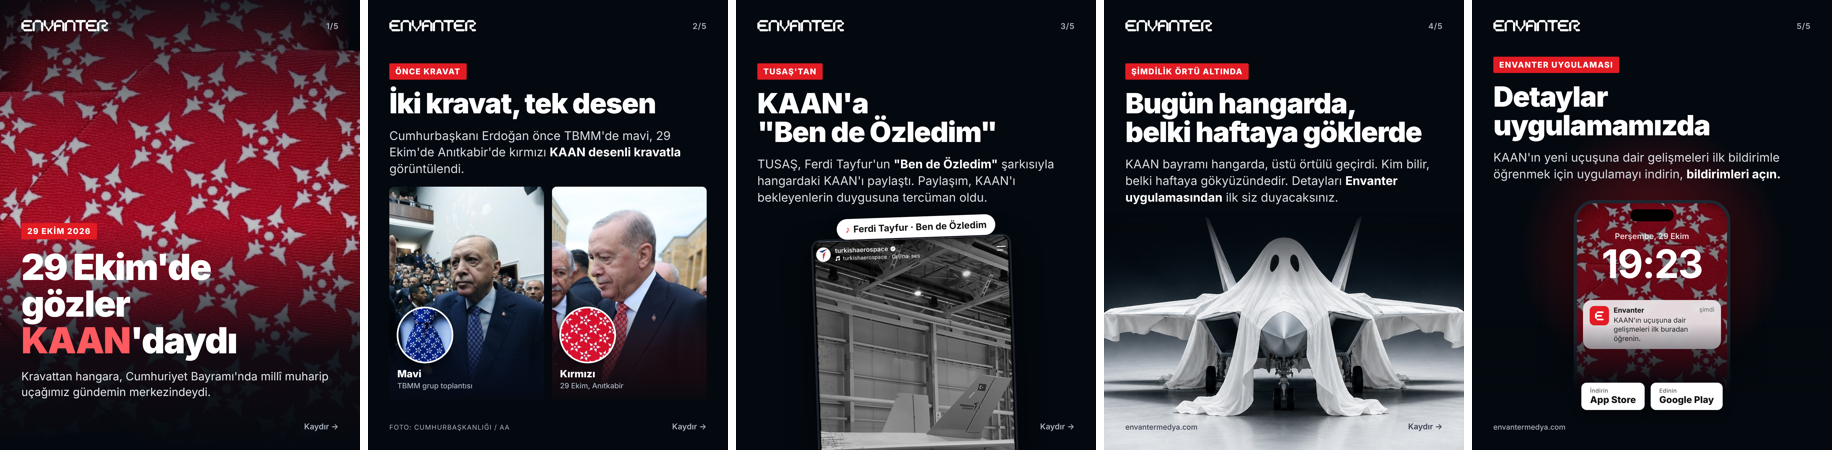
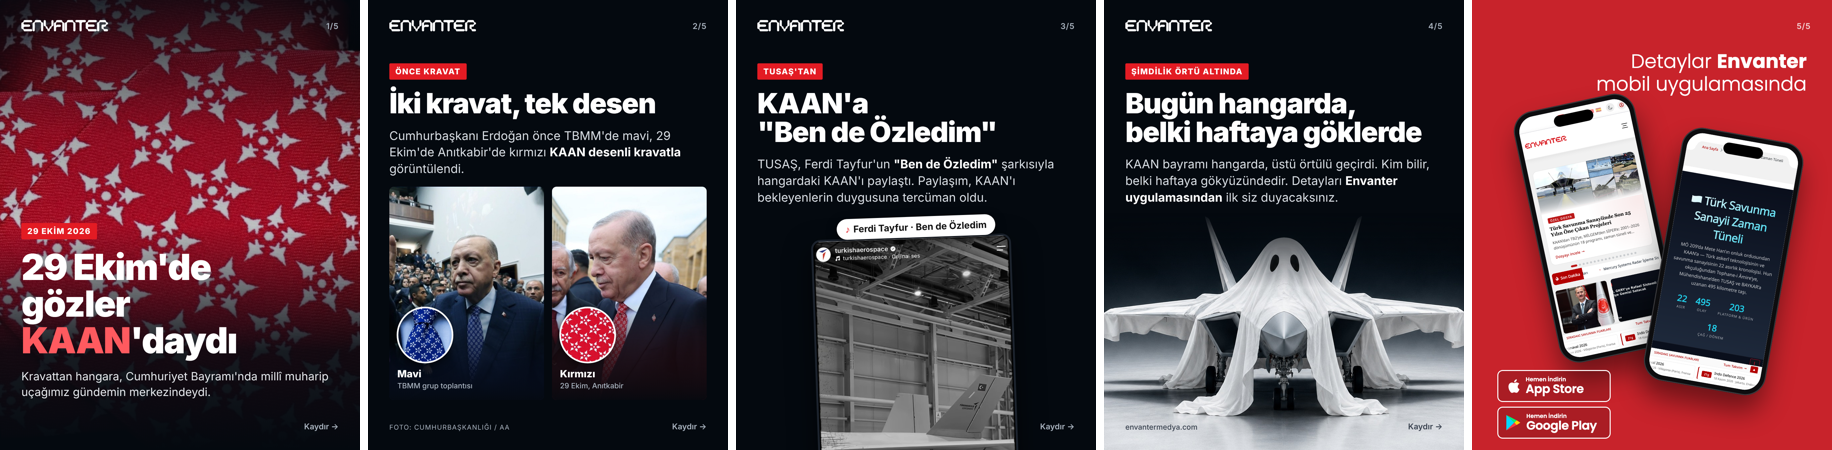
KAAN 29 Ekim carousel'i: 5. slayt Envanter'in hazır uygulama kartıyla değiştirildi
Claude-Session: https://claude.ai/code/session_01AWoAGzbCcH5xr3TPTj3t44

Changed region(s): [[0.7778, 0.0, 1.0, 1.0]]

diff --git a/kartlar/kaan-29-ekim/seri.html b/kartlar/kaan-29-ekim/seri.html
@@ -46,25 +46,6 @@ body{background:#000;font-family:"Inter",sans-serif;}
 .last .peek{position:absolute;left:50%;bottom:-150px;width:1080px;height:860px;transform:translateX(-50%);background:url(_src/ghost.jpg) -23px -440px/1126px 1397px no-repeat;
   -webkit-mask-image:linear-gradient(180deg,transparent 0%,#000 26%);mask-image:linear-gradient(180deg,transparent 0%,#000 26%)}
 
-/* slide 5 app */
-.app .glow{position:absolute;left:50%;top:760px;width:900px;height:900px;transform:translate(-50%,-50%);background:radial-gradient(circle,rgba(227,27,35,.45) 0%,rgba(227,27,35,0) 62%)}
-.app .text{top:170px}
-.ph5{position:absolute;left:50%;top:600px;width:470px;height:900px;transform:translateX(-50%);border-radius:64px;background:#0d1117;border:10px solid #1f2630;box-shadow:0 40px 90px rgba(0,0,0,.7);overflow:hidden;z-index:3}
-.ph5 .wall{position:absolute;inset:0;background:url(_src/kravat-kirmizi-buyuk.jpg) center/cover}
-.ph5 .dim{position:absolute;inset:0;background:linear-gradient(180deg,rgba(0,0,0,.45),rgba(0,0,0,.7))}
-.ph5 .island{position:absolute;left:50%;top:18px;width:130px;height:36px;border-radius:20px;background:#000;transform:translateX(-50%)}
-.ph5 .date{position:absolute;top:84px;width:100%;text-align:center;font-size:24px;font-weight:600;color:rgba(255,255,255,.85)}
-.ph5 .time{position:absolute;top:110px;width:100%;text-align:center;font-size:118px;font-weight:700;letter-spacing:-3px;color:#fff}
-.nt{position:absolute;left:18px;right:18px;border-radius:26px;background:rgba(245,245,247,.88);backdrop-filter:blur(10px);color:#111;padding:18px 20px;display:flex;gap:14px}
-.nt .ic{flex:none;width:58px;height:58px;border-radius:14px;background:var(--red) url(_src/logo-e.png) center/26px auto no-repeat}
-.nt .t{font-size:21px;font-weight:700;display:flex;justify-content:space-between;width:100%}
-.nt .t span{font-weight:400;color:#666;font-size:18px}
-.nt .b{font-size:21px;line-height:1.3;margin-top:4px;color:#222}
-.nt .col{flex:1}
-.stores{position:absolute;left:0;right:0;bottom:120px;display:flex;justify-content:center;gap:18px;z-index:6}
-.store{background:#fff;color:#111;border-radius:16px;padding:14px 26px;font-size:28px;font-weight:800;box-shadow:0 10px 30px rgba(0,0,0,.4)}
-.store small{display:block;font-size:17px;font-weight:500;color:#555;letter-spacing:.5px}
-.app .fadebot{position:absolute;left:0;right:0;bottom:0;height:380px;background:linear-gradient(180deg,rgba(4,9,15,0),#04090F 55%);z-index:4}
 </style></head><body>
 
 <!-- 1 -->
@@ -126,22 +107,7 @@ body{background:#000;font-family:"Inter",sans-serif;}
   <div class="swipe" style="color:#3a4350">Kaydır →</div>
 </section>
 <!-- 5 -->
-<section class="card app" id="s5">
-  <div class="glow"></div>
-  <img class="logo" src="_src/logo-white.png"><div class="num">5/5</div>
-  <div class="text">
-    <span class="label">ENVANTER UYGULAMASI</span>
-    <div class="h">Detaylar<br>uygulamamızda</div>
-    <div class="p">KAAN'ın yeni uçuşuna dair gelişmeleri ilk bildirimle öğrenmek için uygulamayı indirin, <b>bildirimleri açın.</b></div>
-  </div>
-  <div class="ph5">
-    <div class="wall"></div><div class="dim"></div><div class="island"></div>
-    <div class="date">Perşembe, 29 Ekim</div>
-    <div class="time">19:23</div>
-    <div class="nt" style="top:290px"><div class="ic"></div><div class="col"><div class="t">Envanter <span>şimdi</span></div><div class="b">KAAN'ın uçuşuna dair gelişmeleri ilk buradan öğrenin.</div></div></div>
-  </div>
-  <div class="fadebot"></div>
-  <div class="stores"><div class="store"><small>İndirin</small>App Store</div><div class="store"><small>Edinin</small>Google Play</div></div>
-  <div class="site">envantermedya.com</div>
+<section class="card" id="s5" style="background:url(_src/uygulama-karti.png) 0 0/1080px 1350px no-repeat">
+  <div class="num" style="color:rgba(255,255,255,.8)">5/5</div>
 </section>
 </body></html>

diff --git a/kartlar/kaan-29-ekim/caption.md b/kartlar/kaan-29-ekim/caption.md
@@ -10,7 +10,7 @@ Görseller: `seri/1-kapak.png` … `seri/5-uygulama.png` (5 slayt, 1080×1350, I
 | 2 | İki kravat, tek desen: TBMM'de mavi, 29 Ekim'de Anıtkabir'de kırmızı (Foto: Cumhurbaşkanlığı / AA) |
 | 3 | TUSAŞ'ın "Ben de Özledim" şarkılı hangar paylaşımı |
 | 4 | Şimdilik örtü altında: bugün hangarda, belki haftaya göklerde |
-| 5 | Detaylar uygulamamızda: Envanter bildirimi olan telefon, App Store / Google Play |
+| 5 | Envanter'in hazır uygulama kartı: "Detaylar Envanter mobil uygulamasında", App Store / Google Play |
 
 ## Instagram / Facebook
 
